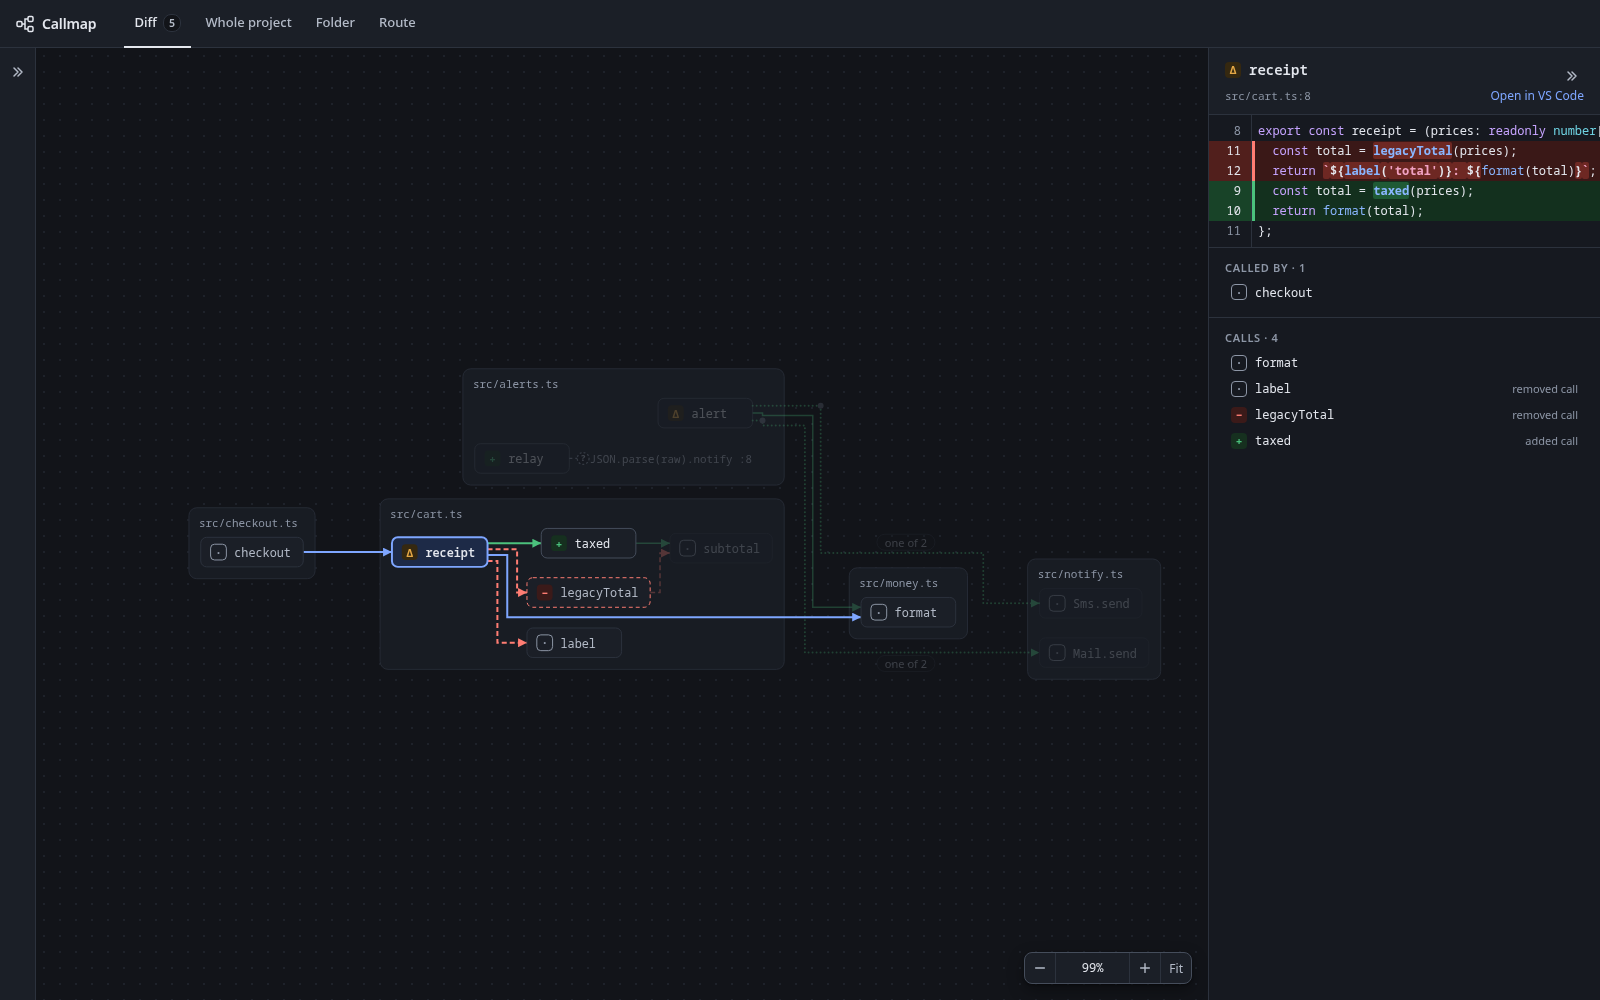
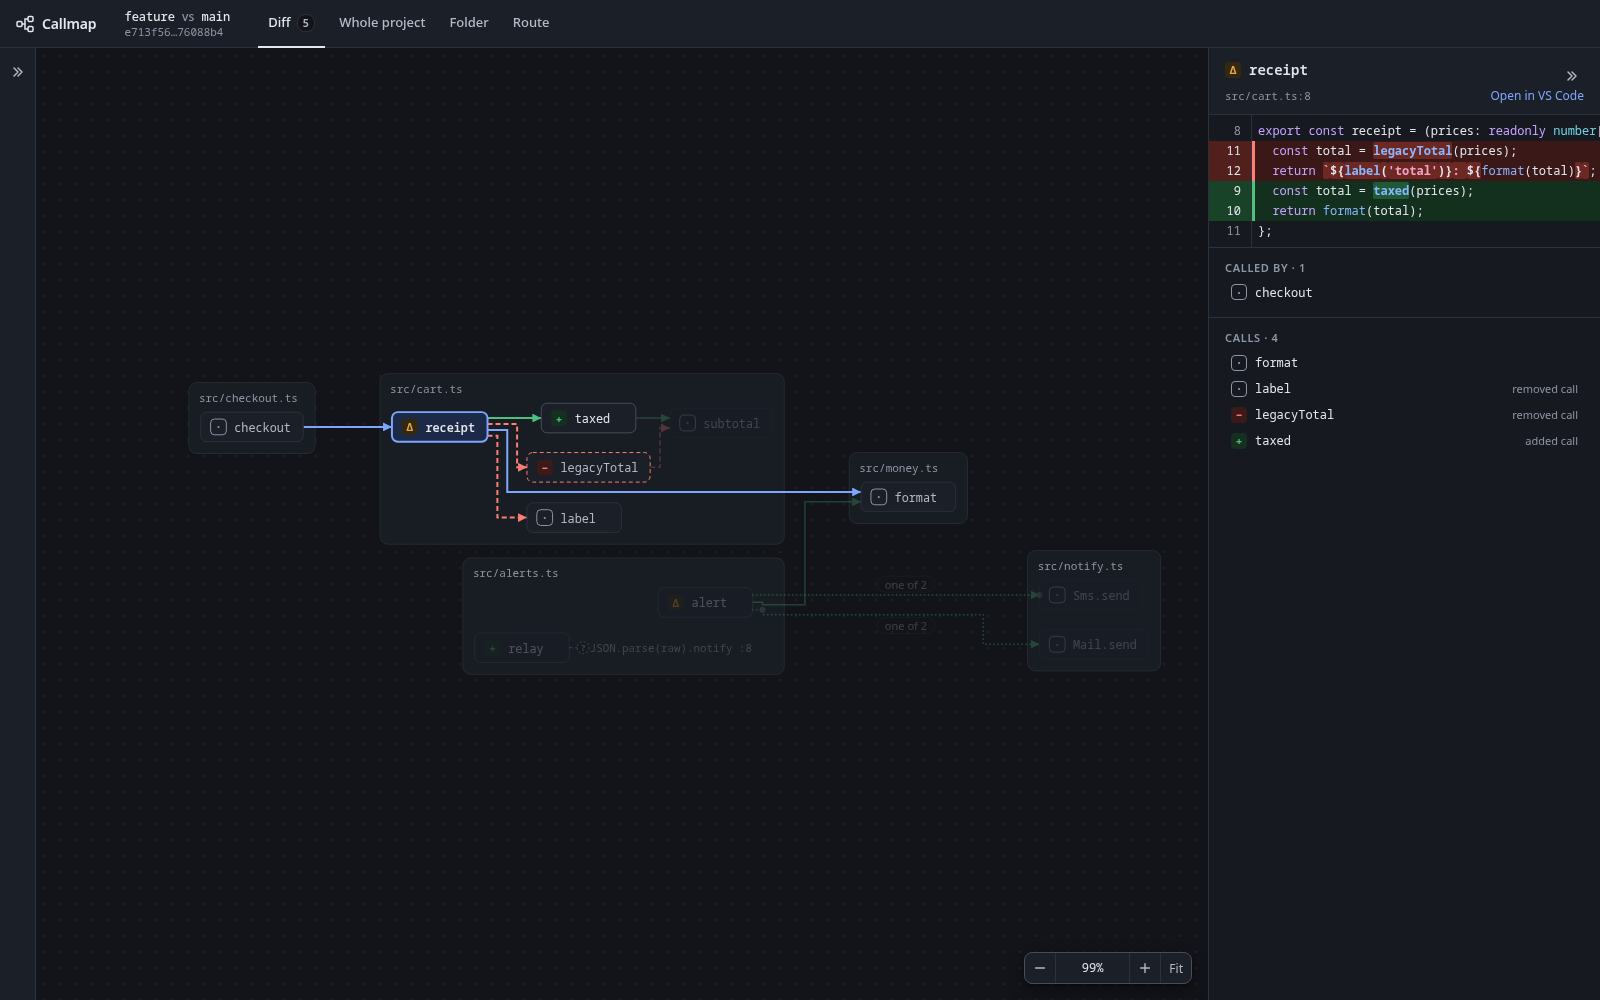
cli: the top bar names the branch and the base, and shows the commit range with a mark for uncommitted changes
The page data holds the checkout: the branch name or nothing for a detached HEAD, the base name as git gives it or as the reader typed it, the short commits of the base and HEAD, and a flag for uncommitted changes to a file in the scope. The short commits have a fixed length of 7, so 2 clones write the same page. The README screenshots show the new top bar.

Closes issue 69

diff --git a/packages/cli/test/checkout.test.ts b/packages/cli/test/checkout.test.ts
@@ -1,0 +1,107 @@
+import { appendFileSync, mkdirSync, writeFileSync } from 'node:fs';
+import { join } from 'node:path';
+import { describe, expect, it } from 'vitest';
+import { commitFile, featureBranchRepo, git } from './fixture-repo.ts';
+import { loadReaderPage, reviewHtmlOf } from './reader-page.ts';
+
+const topBarOf = async (repo: string, ...flags: readonly string[]) => {
+  const { window } = await loadReaderPage(reviewHtmlOf(repo, ...flags));
+  const checkout = window.document.querySelector('.top-bar .checkout');
+  return {
+    names: checkout?.querySelector('.checkout-names')?.textContent ?? '',
+    range: checkout?.querySelector('.checkout-range')?.textContent ?? '',
+  };
+};
+
+const shortOf = (repo: string, revision: string): string =>
+  git(repo, 'rev-parse', '--short', revision);
+
+const cleanRangeOf = (repo: string): string =>
+  `${shortOf(repo, 'feature~1')}…${shortOf(repo, 'HEAD')}`;
+
+describe('the checkout in the top bar', () => {
+  it('names the branch and the default branch, with the range from the merge base to HEAD', async () => {
+    const repo = featureBranchRepo();
+    git(repo, 'checkout', '--quiet', 'main');
+    commitFile(repo, 'README.md', 'after the branch point\n');
+    git(repo, 'checkout', '--quiet', 'feature');
+    expect(await topBarOf(repo)).toEqual({
+      names: 'feature vs main',
+      range: cleanRangeOf(repo),
+    });
+  }, 60_000);
+
+  it('names the default branch as git names it on the remote', async () => {
+    const repo = featureBranchRepo();
+    git(repo, 'update-ref', 'refs/remotes/origin/main', 'main');
+    git(repo, 'symbolic-ref', 'refs/remotes/origin/HEAD', 'refs/remotes/origin/main');
+    expect((await topBarOf(repo)).names).toBe('feature vs origin/main');
+  }, 60_000);
+
+  it('shows a detached HEAD in place of the branch name', async () => {
+    const repo = featureBranchRepo();
+    git(repo, 'checkout', '--quiet', '--detach', 'HEAD');
+    expect((await topBarOf(repo)).names).toBe('detached HEAD vs main');
+  }, 60_000);
+
+  it('names the base as the reader typed it, and starts the range at that commit', async () => {
+    const repo = featureBranchRepo();
+    commitFile(
+      repo,
+      'src/money.ts',
+      'export const half = (amount: number): number => amount / 2;\n',
+    );
+    expect(await topBarOf(repo, '--base', 'HEAD~1')).toEqual({
+      names: 'feature vs HEAD~1',
+      range: `${shortOf(repo, 'HEAD~1')}…${shortOf(repo, 'HEAD')}`,
+    });
+  }, 60_000);
+});
+
+describe('the uncommitted mark in the top bar', () => {
+  const markedRangeOf = (repo: string): string => `${cleanRangeOf(repo)} + uncommitted changes`;
+  const SCOPE = ['--scope', 'src/**'];
+
+  it.each([
+    [
+      'an unstaged change',
+      (repo: string) => {
+        appendFileSync(join(repo, 'src/cart.ts'), '\nexport const unstaged = (): number => 1;\n');
+      },
+    ],
+    [
+      'a staged change',
+      (repo: string) => {
+        appendFileSync(join(repo, 'src/money.ts'), '\nexport const staged = (): number => 1;\n');
+        git(repo, 'add', 'src/money.ts');
+      },
+    ],
+    [
+      'an untracked file',
+      (repo: string) => {
+        mkdirSync(join(repo, 'src/new'));
+        writeFileSync(join(repo, 'src/new/fresh.ts'), 'export const fresh = (): number => 1;\n');
+      },
+    ],
+  ])(
+    'marks %s to a file in the scope',
+    async (_, change) => {
+      const repo = featureBranchRepo();
+      change(repo);
+      expect((await topBarOf(repo, ...SCOPE)).range).toBe(markedRangeOf(repo));
+    },
+    60_000,
+  );
+
+  it('leaves a clean tree unmarked', async () => {
+    const repo = featureBranchRepo();
+    expect((await topBarOf(repo, ...SCOPE)).range).toBe(cleanRangeOf(repo));
+  }, 60_000);
+
+  it('leaves a change to a file outside the scope unmarked', async () => {
+    const repo = featureBranchRepo();
+    appendFileSync(join(repo, 'tsconfig.json'), '\n');
+    writeFileSync(join(repo, 'notes.txt'), 'not in the scope\n');
+    expect((await topBarOf(repo, ...SCOPE)).range).toBe(cleanRangeOf(repo));
+  }, 60_000);
+});

diff --git a/packages/cli/src/review-command.ts b/packages/cli/src/review-command.ts
@@ -5,12 +5,14 @@ import type { GraphDocument } from '@callmap/graph-document';
 import { reviewGraphsOf, reviewOf } from '@callmap/review';
 import { inScope, isSkippedDirectory } from '@callmap/scope';
 import { DIFF_LIMIT } from '../page/views/diff.ts';
+import type { Checkout } from '../page/data.ts';
 import type { ReviewInvocation } from './arguments.ts';
 import { throughBaseCache } from './base-cache.ts';
 import { openInBrowser } from './browser.ts';
 import { extractorsFor } from './extractors.ts';
 import type { Extractor } from './extractors.ts';
 import {
+  branchNameOf,
   commitOf,
   commonDirOf,
   defaultBranchOf,
@@ -19,6 +21,7 @@ import {
   mergeBaseOf,
   repoRootOf,
   shortCommitOf,
+  uncommittedFilesOf,
   workingTreeFilesOf,
 } from './git.ts';
 import { readerPageOf } from './reader-page.ts';
@@ -63,14 +66,36 @@ const settled = <T>(result: PromiseSettledResult<T>): T => {
 const inSkippedDirectory = (path: string): boolean =>
   path.split('/').slice(0, -1).some(isSkippedDirectory);
 
+const isInReviewScope = (path: string, scope: readonly string[]): boolean =>
+  !inSkippedDirectory(path) && inScope(path, scope);
+
 const extractorsInScope = (
   extractors: readonly Extractor[],
   files: readonly string[],
   scope: readonly string[],
 ): readonly Extractor[] => {
-  const inScopeFiles = files.filter((path) => !inSkippedDirectory(path) && inScope(path, scope));
+  const inScopeFiles = files.filter((path) => isInReviewScope(path, scope));
   return extractors.filter((extractor) => extractor.claimsAnyOf(inScopeFiles, files));
 };
+
+interface Base {
+  readonly name: string;
+  readonly commit: string;
+}
+
+const baseOf = (root: string, typed: string | undefined): Base => {
+  if (typed !== undefined) return { name: typed, commit: commitOf(root, typed) };
+  const name = defaultBranchOf(root);
+  return { name, commit: mergeBaseOf(root, name) };
+};
+
+const checkoutOf = (root: string, base: Base, scope: readonly string[]): Checkout => ({
+  branch: branchNameOf(root),
+  baseName: base.name,
+  baseCommit: shortCommitOf(root, base.commit),
+  headCommit: shortCommitOf(root, 'HEAD'),
+  uncommitted: uncommittedFilesOf(root).some((path) => isInReviewScope(path, scope)),
+});
 
 interface LanguageDocuments {
   readonly branch: GraphDocument;
@@ -92,10 +117,8 @@ export const runReview = async (
   { diffLimit, extractors }: ReviewSettings = { diffLimit: DIFF_LIMIT },
 ): Promise<FinishedReview> => {
   const root = repoRootOf(resolve(invocation.repo));
-  const base =
-    invocation.base === undefined
-      ? mergeBaseOf(root, defaultBranchOf(root))
-      : commitOf(root, invocation.base);
+  const reviewBase = baseOf(root, invocation.base);
+  const base = reviewBase.commit;
   const { scope } = invocation;
   const documentsOf = async (extractor: Extractor): Promise<LanguageDocuments> => {
     const readBranch = (): Promise<GraphDocument> =>
@@ -140,6 +163,7 @@ export const runReview = async (
     sources: sourcesOf(root, base, review, graphs.branch),
     basePlaces: basePlacesOf(review, graphs.base),
     editor: { name: invocation.editor, repoRoot: root },
+    checkout: checkoutOf(root, reviewBase, scope),
     diffLimit,
   });
 

diff --git a/packages/cli/src/git.ts b/packages/cli/src/git.ts
@@ -91,14 +91,37 @@ export const commitOf = (root: string, revision: string): string =>
     `${revision}^{commit}`,
   );
 
+export const branchNameOf = (root: string): string | undefined =>
+  succeeds(root, 'symbolic-ref', '--quiet', 'HEAD')
+    ? git(root, 'symbolic-ref', '--quiet', '--short', 'HEAD')
+    : undefined;
+
+// git grows the length of --short with the object count, so 2 clones of the same commits can differ.
+const SHORT_COMMIT_LENGTH = 7;
+
 export const shortCommitOf = (root: string, commit: string): string =>
-  git(root, 'rev-parse', '--short', commit);
+  git(root, 'rev-parse', `--short=${String(SHORT_COMMIT_LENGTH)}`, commit);
 
 const pathsOf = (listing: string): readonly string[] =>
   listing.split('\0').filter((path) => path !== '');
 
 export const workingTreeFilesOf = (root: string): readonly string[] =>
   pathsOf(gitOutput(root, 'ls-files', '--cached', '--others', '--exclude-standard', '-z'));
+
+const STATUS_CODE_LENGTH = 'XY '.length;
+
+export const uncommittedFilesOf = (root: string): readonly string[] =>
+  pathsOf(
+    gitOutput(
+      root,
+      '--no-optional-locks',
+      'status',
+      '--porcelain=v1',
+      '-z',
+      '--no-renames',
+      '--untracked-files=all',
+    ),
+  ).map((entry) => entry.slice(STATUS_CODE_LENGTH));
 
 export const filesAtCommit = (root: string, commit: string): readonly string[] =>
   pathsOf(gitOutput(root, 'ls-tree', '-r', '--name-only', '-z', commit));

diff --git a/packages/cli/page/parts/checkout.ts b/packages/cli/page/parts/checkout.ts
@@ -1,0 +1,35 @@
+import type { Checkout } from '../data.ts';
+import { spanOf } from '../panel-elements.ts';
+import type { PagePart } from '../reader-page.ts';
+
+const DETACHED_HEAD = 'detached HEAD';
+
+const namesOf = ({ branch, baseName }: Checkout): HTMLParagraphElement => {
+  const names = document.createElement('p');
+  names.className = 'checkout-names';
+  names.append(
+    spanOf('branch', branch ?? DETACHED_HEAD),
+    ' ',
+    spanOf('vs', 'vs'),
+    ' ',
+    spanOf('base', baseName),
+  );
+  return names;
+};
+
+const rangeOf = ({ baseCommit, headCommit, uncommitted }: Checkout): HTMLParagraphElement => {
+  const range = document.createElement('p');
+  range.className = 'checkout-range';
+  range.textContent = `${baseCommit}…${headCommit}${uncommitted ? ' + uncommitted changes' : ''}`;
+  return range;
+};
+
+const checkout: PagePart = ({ data }) => {
+  const tabs = document.getElementById('views');
+  const element = document.createElement('div');
+  element.className = 'checkout';
+  element.append(namesOf(data.checkout), rangeOf(data.checkout));
+  tabs?.before(element);
+};
+
+export default checkout;

diff --git a/packages/cli/test/panels.test.ts b/packages/cli/test/panels.test.ts
@@ -48,7 +48,7 @@ const translateOf = (page: LoadedPage): readonly [number, number] => {
 };
 
 describe('the top bar', () => {
-  it('shows the product name, and the count of changed functions on the Diff tab, with no branch name', async () => {
+  it('shows the product name, and the count of changed functions on the Diff tab', async () => {
     const page = await loadReaderPage(html);
     const banner = bodyOf(page).getByRole('banner');
     const bar = within(banner);
@@ -56,7 +56,6 @@ describe('the top bar', () => {
     const diff = bar.getByRole('tab', { name: 'Diff' });
     expect(diff.querySelector('.count')?.textContent).toBe('5');
     expect(diff.title).toBe('5 changed functions');
-    expect(banner.textContent).not.toMatch(/feature|main/);
   });
 });
 

diff --git a/packages/cli/page/data.ts b/packages/cli/page/data.ts
@@ -22,12 +22,21 @@ export interface LineSpan {
   readonly lastLine: number;
 }
 
+export interface Checkout {
+  readonly branch: string | undefined;
+  readonly baseName: string;
+  readonly baseCommit: string;
+  readonly headCommit: string;
+  readonly uncommitted: boolean;
+}
+
 export interface ReaderPageData {
   readonly review: Review;
   readonly branchGraph: CallGraph;
   readonly packedSources: string;
   readonly basePlaces: Readonly<Record<FunctionId, LineSpan>>;
   readonly editor: EditorChoice;
+  readonly checkout: Checkout;
   readonly placements: Readonly<Partial<Record<string, Placement>>>;
   readonly diffLimit: number;
 }

diff --git a/packages/cli/page/parts/checkout.css b/packages/cli/page/parts/checkout.css
@@ -1,0 +1,25 @@
+.top-bar .checkout {
+  min-width: 0;
+}
+
+.checkout p {
+  overflow: hidden;
+  margin: 0;
+  text-overflow: ellipsis;
+  white-space: nowrap;
+}
+
+.checkout-names {
+  color: var(--ink);
+  font: 500 12px/16px var(--font-code);
+}
+
+.checkout-names .vs {
+  color: var(--muted);
+  font-family: var(--font-ui);
+}
+
+.checkout-range {
+  color: var(--muted);
+  font: 11px/14px var(--font-code);
+}
